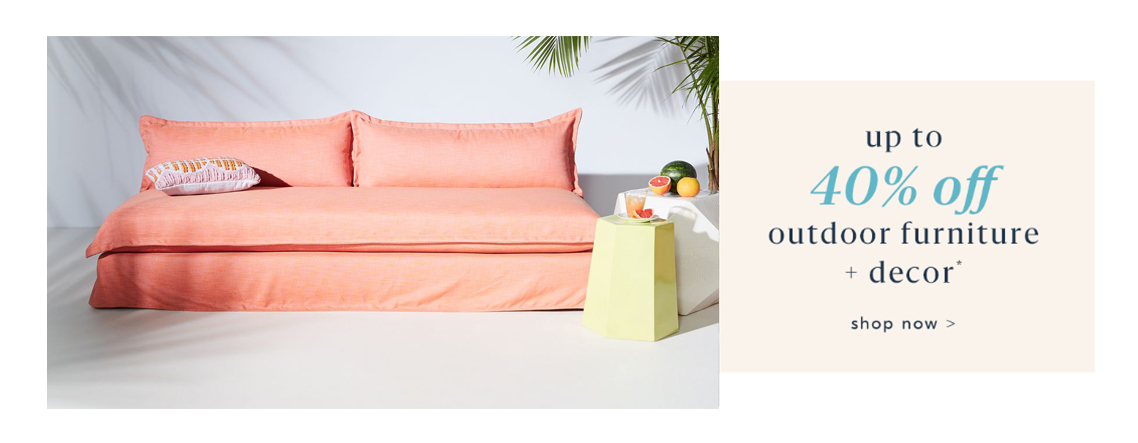
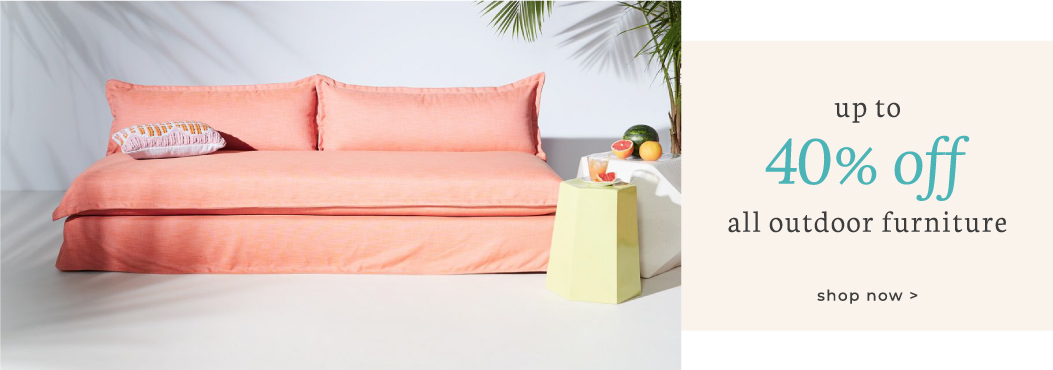
adjusted promo & lookbook images

diff --git a/index.html b/index.html
@@ -87,15 +87,15 @@
   </header>
   <!-- End Header -->
   
-  <!-- Main with news section, featured items, newsletter signup -->
+  <!-- Main with promo section, featured items, newsletter signup -->
   <main>
-    <!-- News Section -->
+    <!-- Promo Section -->
     <section class="side-margin">
-      <div class="container-fluid news-section">
-        <img src="images/news1.jpg" alt="summer furniture">
+      <div class="container-fluid promo-section text-center">
+        <img src="images/news1.jpg" class="img-fluid" alt="summer furniture">
       </div>
     </section>
-    <!-- End News Section -->
+    <!-- End Promo Section -->
     
     <article class="side-margin">
       <!-- Featured Items -->
@@ -104,19 +104,19 @@
         <div class="row">
           <div class="col-sm-4">
             <a href="#">
-              <img src="images/featured1.jpg" class="img-responsive" alt="Image">
+              <img src="images/featured1.jpg" class="img-fluid" alt="Plant Pots">
               <p>Palorosa Planters</p>
             </a>  
           </div>
           <div class="col-sm-4">
             <a href="#">
-              <img src="images/featured2.jpg" class="img-responsive" alt="Image">
+              <img src="images/featured2.jpg" class="img-fluid" alt="Green Velvet Chaise">
               <p>Loire Velvet Chaise</p>
             </a>
           </div>
           <div class="col-sm-4"> 
             <a href="#">
-              <img src="images/featured3.jpg" class="img-responsive" alt="Image">
+              <img src="images/featured3.jpg" class="img-fluid" alt="Stone Coasters">
               <p>Amalfi Coasters</p>
             </a>  
           </div>
@@ -127,8 +127,8 @@
     
     <!-- Lookbook Section -->
     <section>
-      <div class="container-fluid lookbook">
-        <img src="images/lookbook1.jpg" alt="living room furniture">
+      <div class="container-fluid lookbook text-center">
+        <img src="images/lookbook1.jpg" class="img-fluid" alt="living room furniture">
       </div>
     </section>
     <!-- End Lookbook Section -->
@@ -140,7 +140,7 @@
         <div class="row text-left blog">
           <div class="col-md-8">
             <a href="#">
-              <img src="images/blog1.jpg" alt="mid century modern barware">
+              <img src="images/blog1.jpg" class="img-fluid" alt="mid century modern barware">
               <h3>SUMMER TIME, COCKTAIL TIME</h3>  
               <p>We've rounded up 10 of the best cocktails for your summer soirees.</p>
               <p class="blog-1">Read more on our blog ></p>
@@ -151,7 +151,7 @@
               <h3>OUR FAVORITE RUGS</h3>
               <p>From Marrakesh to Toledo, we've found our favorite rugs handcrafted by artisans exclusively for Moderne.</p>
               <p class="blog-2">Read more on our blog ></p>
-              <img src="images/blog2.jpg" alt="floral rug">
+              <img src="images/blog2.jpg" class="img-fluid" alt="floral rug">
             </a>  
           </div>
         </div>

diff --git a/styles/styles.scss b/styles/styles.scss
@@ -9,7 +9,7 @@ $main-font: 'Montserrat', sans-serif;
 // TABLE OF CONTENTS :
 // 1. Global Styles
 // 2. Navbar
-// 3. News Section
+// 3. Promo Section
 // 4. Featured Items
 // 5. Lookbook
 // 6. Blog
@@ -33,6 +33,7 @@ body {
 
 img {
   max-width: 100%;
+  hight: auto;
 }
 
 .side-margin {
@@ -60,10 +61,11 @@ img {
 
 
 
-// 3. NEWS SECTION //
+// 3. PROMO SECTION //
 
-.news-section {
-  padding-top: 3rem;
+.promo-section {
+  margin-top: 1rem;
+  padding: 3rem;
 }
 
 
@@ -103,7 +105,7 @@ img {
 
 .lookbook {
   margin: 0;
-  padding: 2rem 0 3rem 0;
+  padding: 3rem 0;
 }
 
 

diff --git a/styles/styles.css b/styles/styles.css
@@ -8,7 +8,8 @@ body {
   font-family: "Montserrat", sans-serif; }
 
 img {
-  max-width: 100%; }
+  max-width: 100%;
+  hight: auto; }
 
 .side-margin {
   width: 85%;
@@ -25,8 +26,9 @@ img {
 .nav-right {
   padding-left: 10px; }
 
-.news-section {
-  padding-top: 3rem; }
+.promo-section {
+  margin-top: 1rem;
+  padding: 3rem; }
 
 .featured {
   padding-top: 3rem;
@@ -50,7 +52,7 @@ img {
 
 .lookbook {
   margin: 0;
-  padding: 2rem 0 3rem 0; }
+  padding: 3rem 0; }
 
 .blog-header {
   padding-top: 3rem; }
